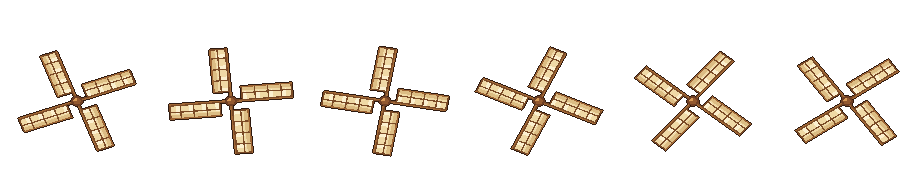
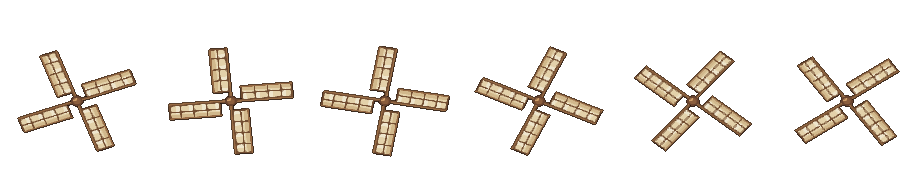
Windmill: cozy pass (coloured outline, muted palette)
Claude-Session: https://claude.ai/code/session_01UfpJh2yGrDMaNfv5mQuco1

diff --git a/tools/pixel-art/windmill.py b/tools/pixel-art/windmill.py
@@ -6,6 +6,21 @@ palet tonlarına yuvarlanır. Kule sabit bir görsel, kanatlar ayrı dönüş ka
 """
 import math, os
 from PIL import Image
+import colorsys, sys
+sys.path.insert(0, os.path.dirname(os.path.abspath(__file__)))
+from soften import soften
+
+def cozy(im, sat=0.82, val=0.95):
+    """Meydan setiyle aynı tarz: biraz az doygun, renkli kontur (soften), köşelerde ara ton."""
+    im = soften(im, outline_dark=(40, 28, 22), inner=False); px = im.load()
+    for y in range(im.height):
+        for x in range(im.width):
+            r, g, b, a = px[x, y]
+            if a < 200: continue
+            h, s_, v = colorsys.rgb_to_hsv(r / 255, g / 255, b / 255)
+            r, g, b = colorsys.hsv_to_rgb(h, s_ * sat, v * val)
+            px[x, y] = (int(r * 255), int(g * 255), int(b * 255), a)
+    return im
 
 SC = float(os.environ.get('SC', '2.4'))   # 1 dünya birimi = SC piksel (2.4: 32px tile, LPC karakter ölçeği)
 W, H = int(round(64 * SC)), int(round(76 * SC))
@@ -196,12 +211,12 @@ def shadow():
 def build(out_dir, frames=6):
     """Oyuna giden iki dosya: kule (gölgesi içinde) ve kanat sprite sheet'i (yan yana kareler)."""
     os.makedirs(out_dir, exist_ok=True)
-    tower = shadow(); tower.alpha_composite(outline(draw_tower()))
+    tower = shadow(); tower.alpha_composite(cozy(outline(draw_tower())))
     tower.save(os.path.join(out_dir, 'windmill_tower.png'))
     sheet = Image.new('RGBA', (W * frames, H), (0, 0, 0, 0))
     for i in range(frames):
         ang = math.radians(20) - i * (math.pi / 2) / frames    # saat yönünde, 4 kanat simetrik: 90° bir tur
-        sheet.paste(outline(draw_sails(ang)), (i * W, 0))
+        sheet.paste(cozy(outline(draw_sails(ang))), (i * W, 0))
     sheet.save(os.path.join(out_dir, 'windmill_sails.png'))
     # Unity'deki pivot: kulenin taban merkezi (MapView.BuildWindmill bu sayıları kullanır)
     print(f'size {W}x{H}, frames {frames}, pivot x={OX / W:.4f} y={(H - OY) / H:.4f}')
